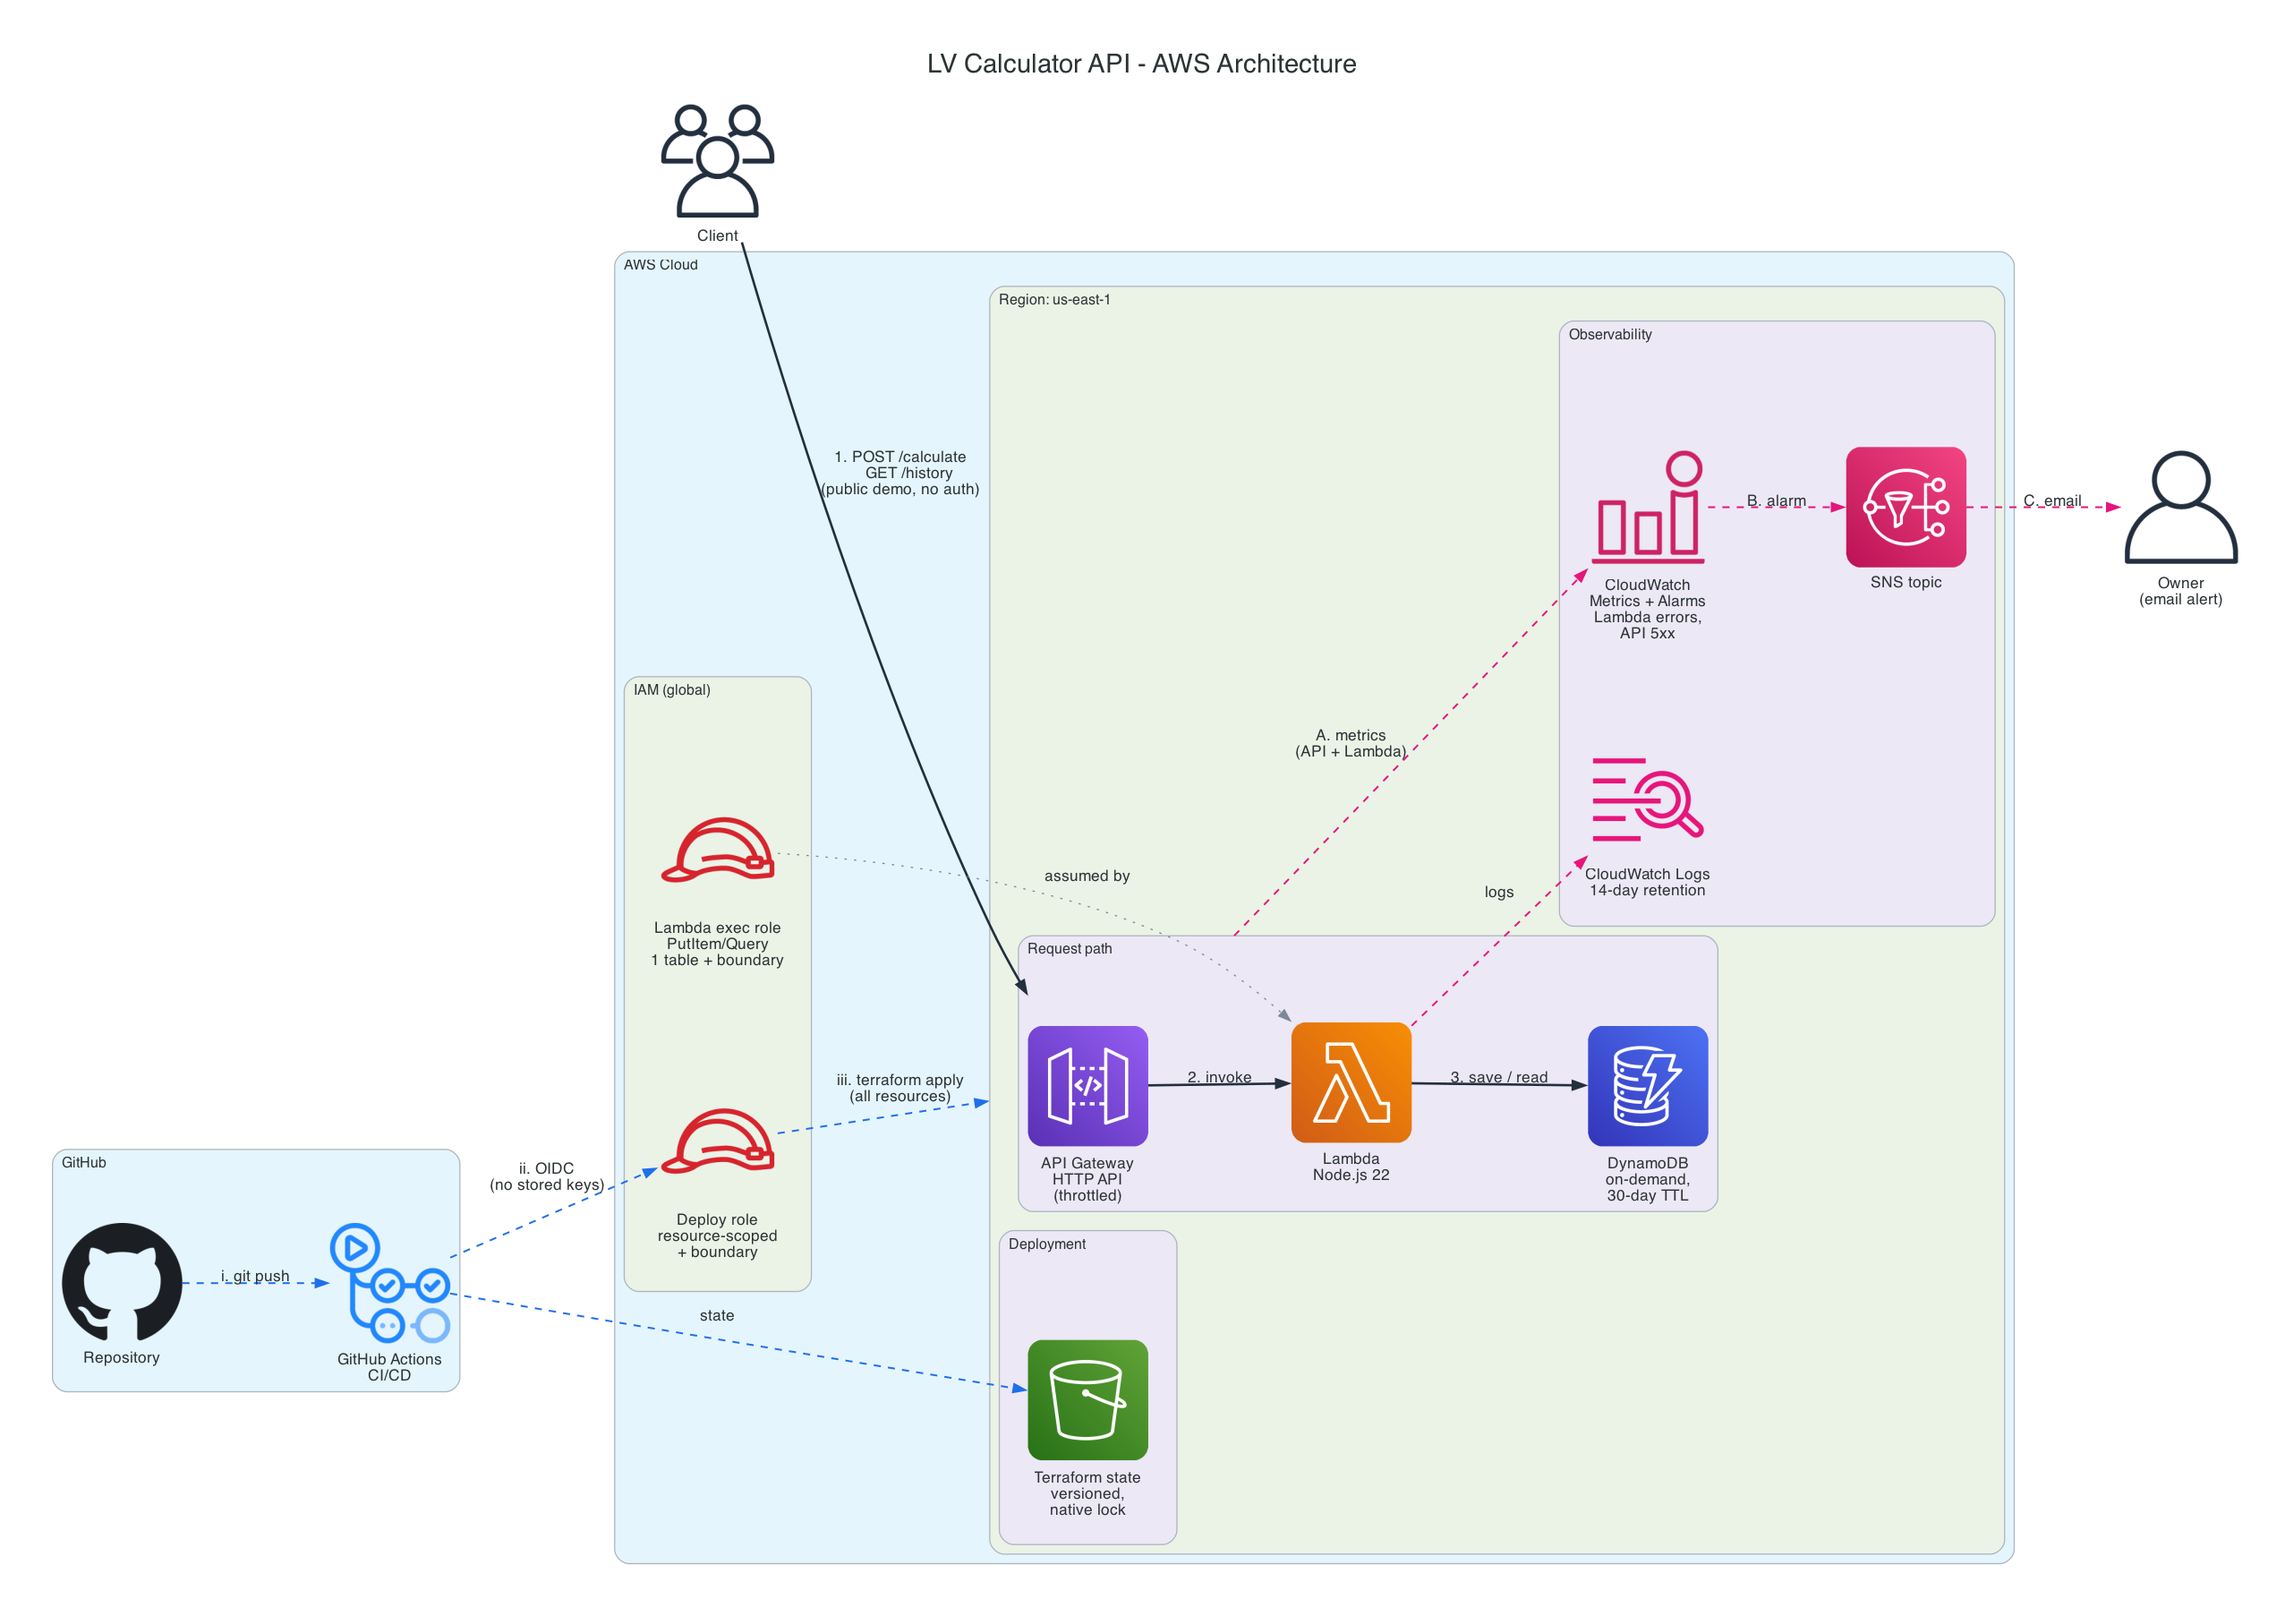
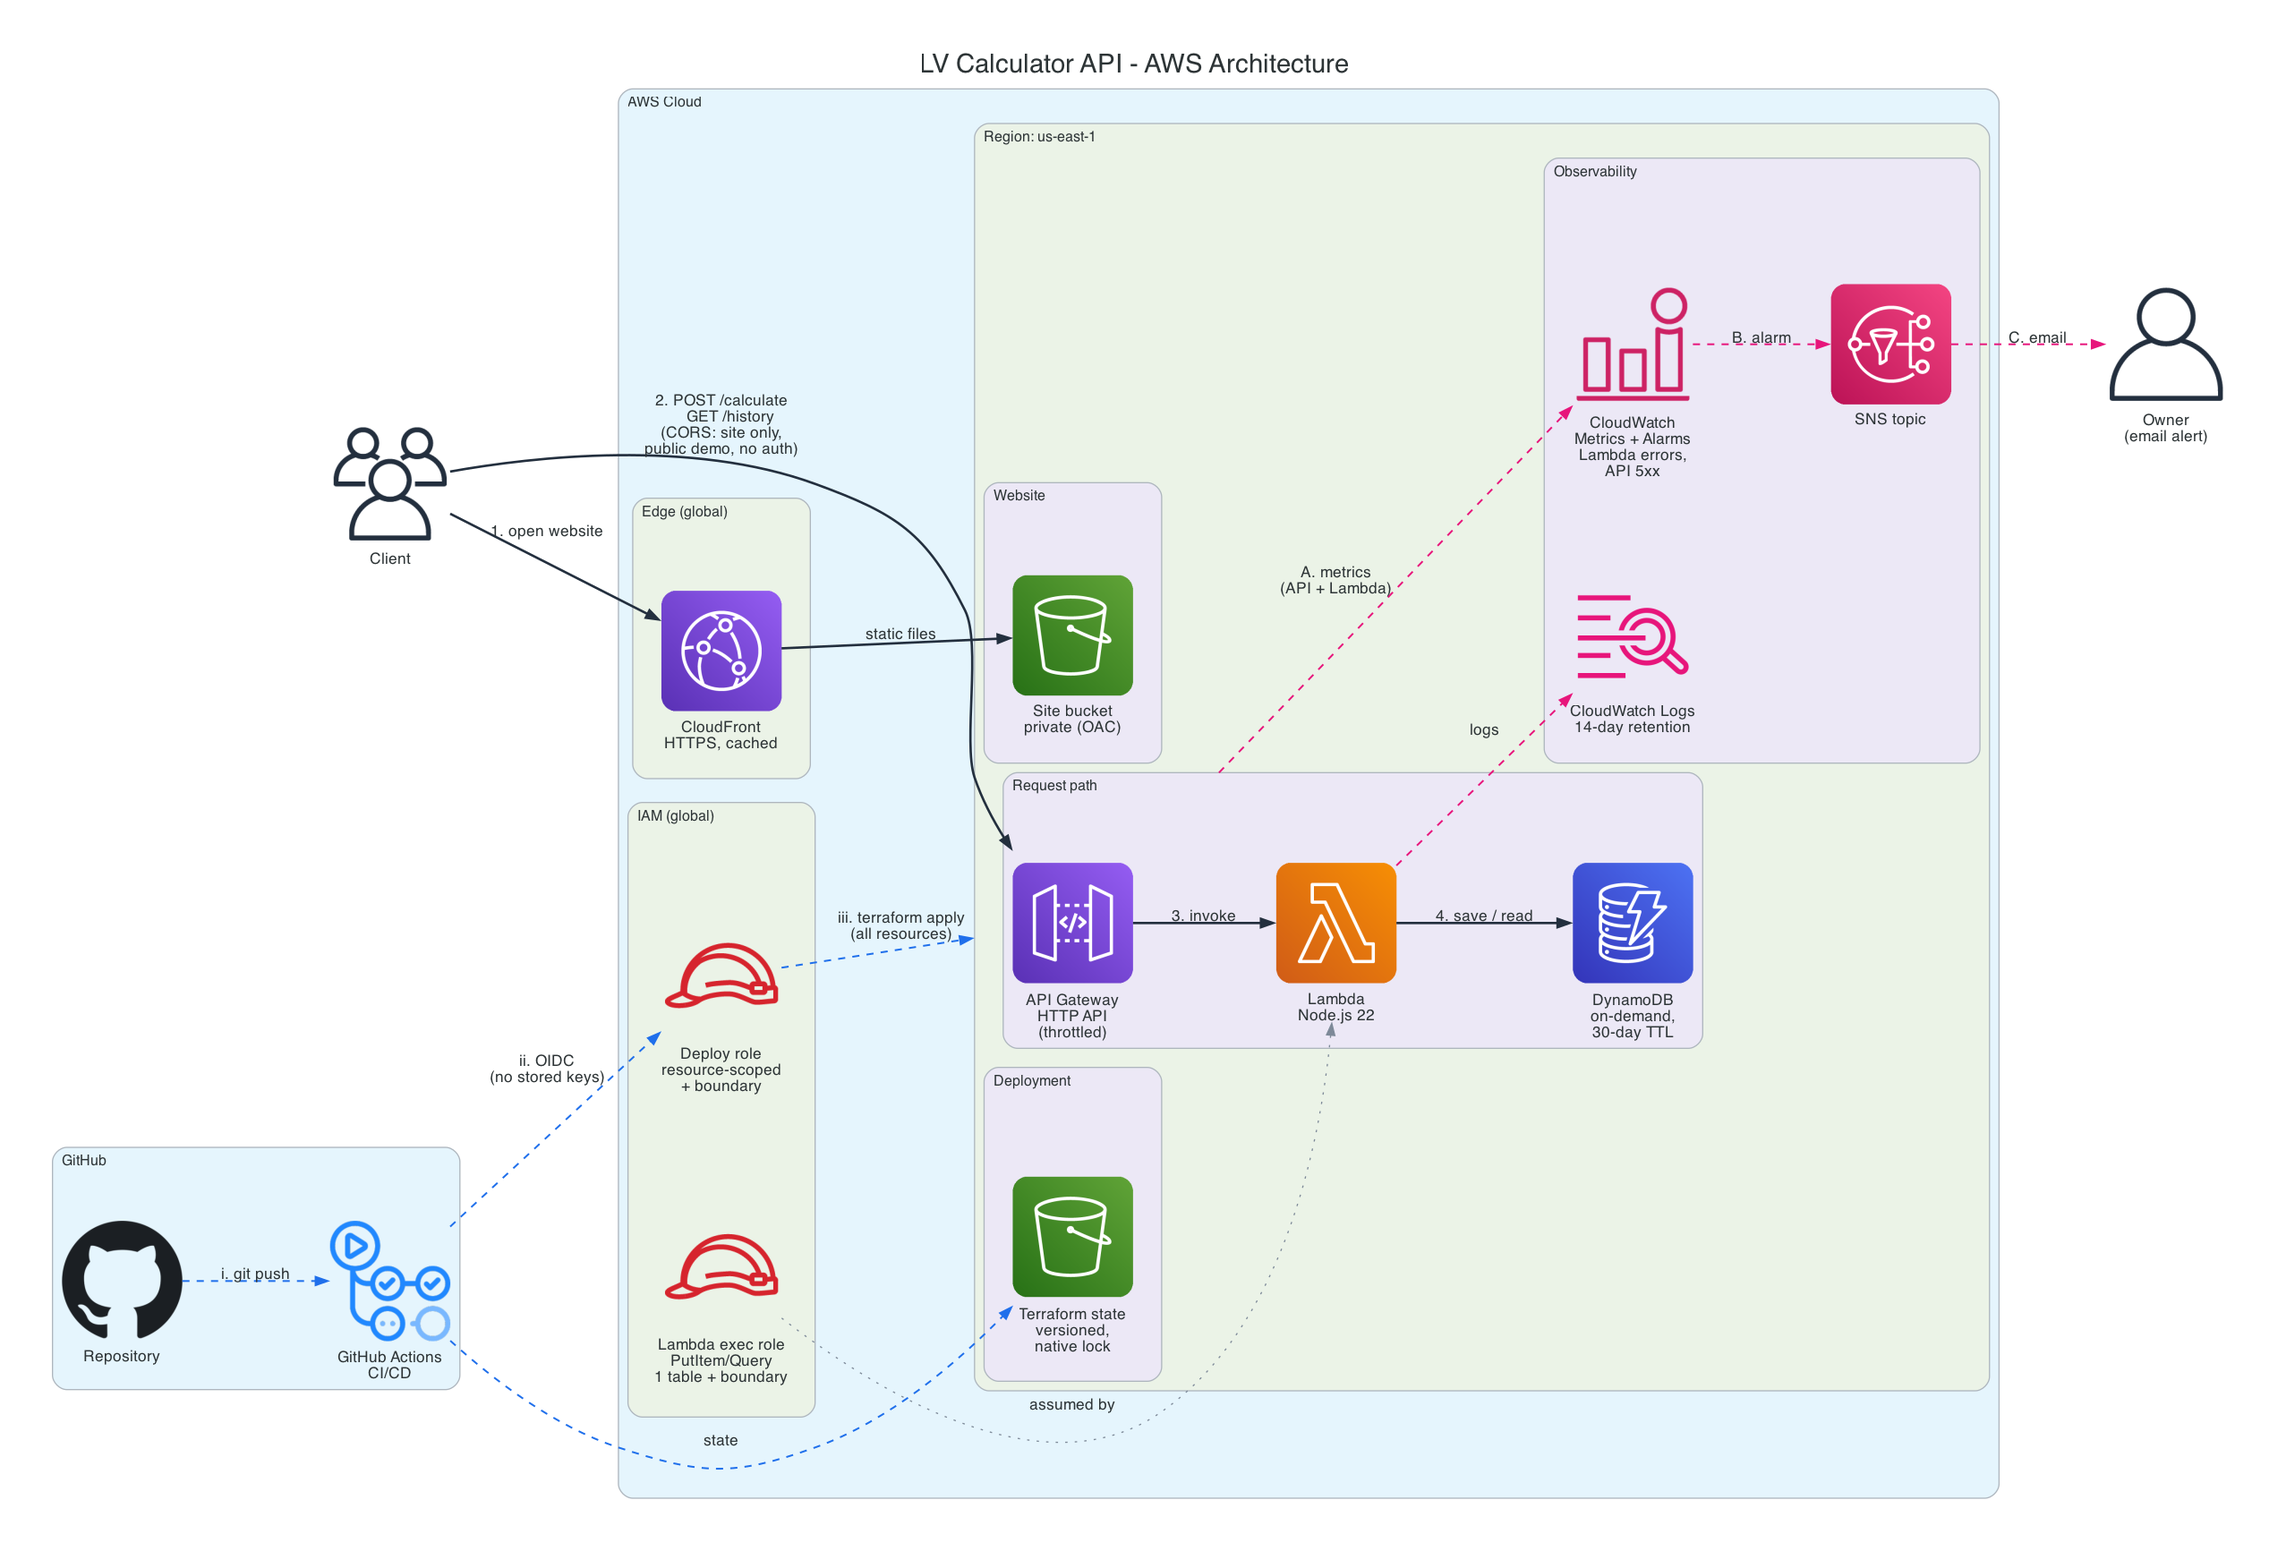
Docs: add website to README and diagram

diff --git a/docs/architecture.py b/docs/architecture.py
@@ -10,7 +10,7 @@ from diagrams.aws.compute import Lambda
 from diagrams.aws.database import Dynamodb
 from diagrams.aws.integration import SNS
 from diagrams.aws.management import CloudwatchAlarm, CloudwatchLogs
-from diagrams.aws.network import APIGateway
+from diagrams.aws.network import APIGateway, CloudFront
 from diagrams.aws.security import IAMRole
 from diagrams.aws.storage import S3
 from diagrams.onprem.ci import GithubActions
@@ -51,7 +51,14 @@ with Diagram(
             role = IAMRole("Deploy role\nresource-scoped\n+ boundary")
             exec_role = IAMRole("Lambda exec role\nPutItem/Query\n1 table + boundary")
 
+        # CloudFront is a global edge service, so it sits outside the Region box.
+        with Cluster("Edge (global)", graph_attr={"margin": "24"}):
+            cdn = CloudFront("CloudFront\nHTTPS, cached")
+
         with Cluster("Region: us-east-1"):
+            with Cluster("Website", graph_attr={"margin": "24"}):
+                site = S3("Site bucket\nprivate (OAC)")
+
             with Cluster("Request path"):
                 api = APIGateway("API Gateway\nHTTP API\n(throttled)")
                 fn = Lambda("Lambda\nNode.js 22")
@@ -69,10 +76,12 @@ with Diagram(
         repo = Github("Repository")
         ci = GithubActions("GitHub Actions\nCI/CD")
 
-    # 1-3: request path
-    client >> Edge(label="1. POST /calculate\n    GET /history\n(public demo, no auth)", **REQUEST) >> api
-    api >> Edge(label="2. invoke", **REQUEST) >> fn
-    fn >> Edge(label="3. save / read", **REQUEST) >> table
+    # 1-4: request path
+    client >> Edge(label="1. open website", **REQUEST) >> cdn
+    cdn >> Edge(label="static files", **REQUEST) >> site
+    client >> Edge(label="2. POST /calculate\n    GET /history\n(CORS: site only,\npublic demo, no auth)", **REQUEST) >> api
+    api >> Edge(label="3. invoke", **REQUEST) >> fn
+    fn >> Edge(label="4. save / read", **REQUEST) >> table
     exec_role >> Edge(label="assumed by", style="dotted", color="#7D8998") >> fn
 
     # A-C: monitoring and alerting

diff --git a/README.md b/README.md
@@ -2,11 +2,15 @@
 
 [![CI/CD](https://github.com/wajih2411/lv-calculator-api/actions/workflows/deploy.yml/badge.svg)](https://github.com/wajih2411/lv-calculator-api/actions/workflows/deploy.yml)
 
-A serverless API that sizes a low-voltage camera system, deployed to AWS with Terraform and GitHub Actions.
+**Live demo:** https://d2uobnkpu5jtt4.cloudfront.net
+
+A serverless API and website (the Camera Infrastructure Calculator) that sizes a low-voltage camera system, deployed to AWS with Terraform and GitHub Actions.
 
 ## What it does
 
 Give it a camera count, resolution and retention period, and it estimates the network bandwidth, recording storage, PoE power load, heat load in BTU/hr and UPS runtime for the system. Every calculation is saved and can be retrieved later through a history endpoint.
+
+The Camera Infrastructure Calculator is a web interface to the same API: it runs calculations and shows the history in the browser.
 
 ## Architecture
 
@@ -19,6 +23,7 @@ Diagram generated from code with the Python `diagrams` library (`docs/architectu
 - **Runtime:** Node.js 22 on AWS Lambda (arm64)
 - **API:** API Gateway HTTP API
 - **Data:** DynamoDB, on-demand, with TTL
+- **Frontend:** HTML/CSS/JS with Motion animations, on S3 + CloudFront (Origin Access Control)
 - **Monitoring:** CloudWatch Logs and Alarms, SNS email
 - **Infrastructure as code:** Terraform, state in S3
 - **CI/CD:** GitHub Actions with OIDC
@@ -36,6 +41,8 @@ Diagram generated from code with the Python `diagrams` library (`docs/architectu
 - **Permissions boundary.** The deploy role can only create IAM roles capped by a boundary policy, so it cannot grant itself or the app more access than the app needs.
 - **S3 remote state with native locking.** CI and local runs share one state file, and two applies cannot run at once.
 - **Cost controls.** API throttling (5 requests/second, burst of 10) limits abuse, and logs expire after 14 days.
+- **Private site bucket behind CloudFront (OAC).** The S3 bucket is private and Origin Access Control lets only CloudFront read the site files. CloudFront serves them over HTTPS with managed security headers.
+- **CORS limited to the site.** The API only allows the CloudFront origin, so browsers on other sites can't call it.
 
 ## API
 
@@ -179,6 +186,7 @@ At hobby traffic this runs within or near the AWS free tier:
 - **Lambda and API Gateway** are pay-per-request, so an idle API costs nothing.
 - **DynamoDB** is on-demand, billed per read and write, and TTL keeps the table small.
 - **S3 state** is a single small file, costing cents per month.
+- **The website** uses CloudFront and a small S3 bucket, which fall within or near the free tier at demo traffic: CloudFront's always-free tier covers far more traffic than this site gets, and S3 storage for a few small files costs pennies.
 
 ## Known limitations & future work
 
@@ -186,3 +194,4 @@ At hobby traffic this runs within or near the AWS free tier:
 - **Single region.** There is no failover if the region has an outage.
 - **Pull requests don't run `terraform plan` against AWS.** Next: a read-only plan role for PRs.
 - **Rule-of-thumb bitrates.** Calculations use typical H.264 values per resolution, not vendor-specific figures.
+- **Account-wide CloudFront permissions.** The deploy role has `cloudfront:*` on all distributions, because distributions get random IDs and can't be scoped by name.
